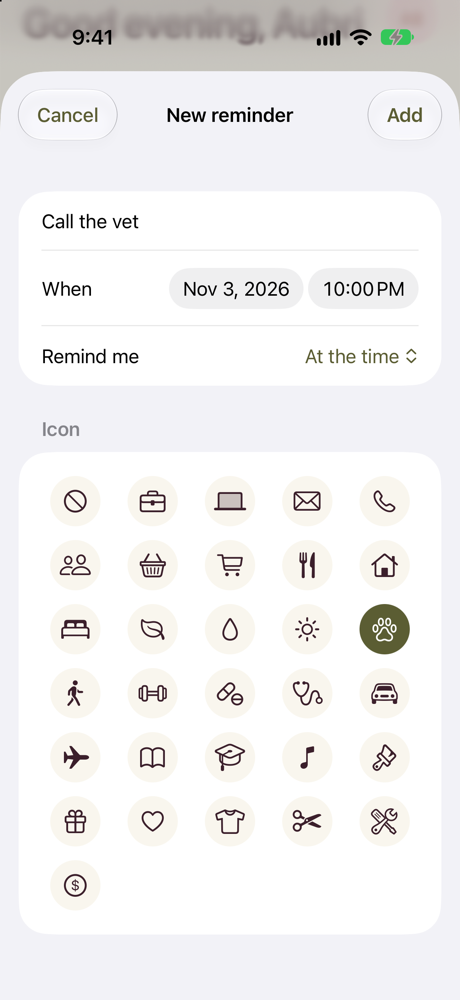
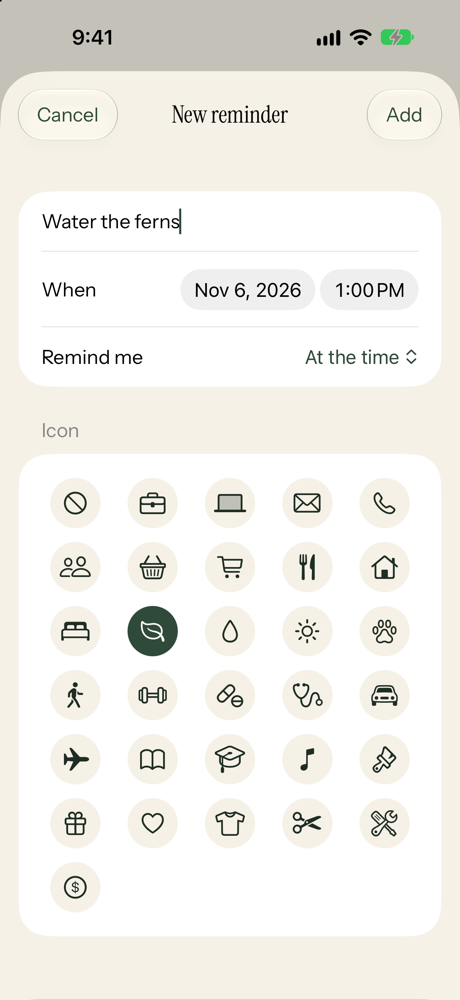
updated README

diff --git a/EverydayApp/App/SampleData.swift b/EverydayApp/App/SampleData.swift
@@ -4,7 +4,7 @@ import SwiftData
 /// Fills the app with data that mirrors the mockup. Used by the
 /// "Load sample data" button and by Xcode previews.
 enum SampleData {
-    /// Adds sample lists, tasks and Library items. Doesn't remove anything first.
+    /// Adds sample lists, tasks, Library items, habits and workouts. Doesn't remove anything first.
     static func load(into context: ModelContext) {
         let cal = Calendar.current
 
@@ -95,5 +95,74 @@ enum SampleData {
         save("Little Olive", "Downtown", .restaurant, .want, "Mediterranean")
         save("Sora Ramen", "Eastside", .restaurant, .want, "Japanese")
         save("Casa Verde", "Old Town", .restaurant, .done, "Mexican", rating: 4)
+
+        // Habits, with a few weeks of history so the streaks and 7-day bars have something to show.
+        func habit(_ name: String, _ icon: String, _ tint: CardTint, target: Int = 1, order: Int,
+                   today: Int, doneDaysAgo: [Int]) {
+            let h = Habit(name: name, icon: icon, tint: tint, target: target, order: order)
+            context.insert(h)
+            var counts = Dictionary(uniqueKeysWithValues: doneDaysAgo.map { ($0, target) })
+            if today > 0 { counts[0] = today }
+            for (daysAgo, count) in counts {
+                let checkIn = HabitCheckIn(day: at(12, daysFromNow: -daysAgo), count: count, target: target)
+                context.insert(checkIn)
+                checkIn.habit = h
+            }
+        }
+        habit("Drink water", "drop", .lavender, target: 8, order: 0, today: 3,
+              doneDaysAgo: [1, 2, 4, 5] + Array(9...17))
+        habit("Stretch", "figure.yoga", .peach, order: 1, today: 1,
+              doneDaysAgo: Array(1...4) + Array(8...19))
+        habit("Read 20 minutes", "book", .lemon, order: 2, today: 0,
+              doneDaysAgo: [2, 4, 5, 6] + Array(10...15))
+
+        // Gym: four workout days. Core was finished yesterday, so Leg x Glutes is today's,
+        // and it's half done: one exercise finished (a new best) and two sets of the next.
+        func workout(_ name: String, _ icon: String, order: Int,
+                     _ moves: [(String, Int, Int, Double?, Bool)]) -> WorkoutDay {
+            let day = WorkoutDay(name: name, icon: icon, order: order)
+            context.insert(day)
+            for (index, move) in moves.enumerated() {
+                let e = Exercise(name: move.0, sets: move.1, reps: move.2, isTimed: move.4,
+                                 weight: move.3, order: index)
+                context.insert(e)
+                e.day = day
+            }
+            return day
+        }
+        let legs = workout("PF Leg x Glutes Day", "figure.strengthtraining.functional", order: 0, [
+            ("Hip Adduction", 3, 12, 85, false),
+            ("Leg Press", 3, 12, 180, false),
+            ("Romanian Deadlift", 3, 10, 65, false),
+            ("Hip Thrust", 3, 10, 135, false),
+            ("Plank", 3, 30, nil, true),
+        ])
+        _ = workout("PF Arm x Shoulder Day", "dumbbell", order: 1, [
+            ("Shoulder Press", 3, 12, 30, false),
+            ("Bicep Curls", 3, 12, 20, false),
+            ("Lateral Raises", 3, 15, 12.5, false),
+            ("Tricep Pushdown", 3, 12, 40, false),
+        ])
+        _ = workout("PF Back x Chest Day", "figure.strengthtraining.traditional", order: 2, [
+            ("Lat Pulldown", 3, 12, 90, false),
+            ("Chest Press", 3, 12, 65, false),
+            ("Seated Row", 3, 12, 85, false),
+        ])
+        let core = workout("PF Core Day", "figure.core.training", order: 3, [
+            ("Dead Bug", 3, 12, nil, false),
+            ("Side Plank", 3, 30, nil, true),
+        ])
+        core.lastCompletedAt = at(18, daysFromNow: -1)
+
+        let moves = legs.sortedExercises
+        // Hip Adduction: 80 lbs last week, 85 today, so it shows "Best!".
+        let earlier = ExerciseLog(date: at(18, daysFromNow: -7), weight: 80, sets: 3, reps: 12)
+        context.insert(earlier)
+        earlier.exercise = moves[0]
+        for _ in 0..<3 { moves[0].finishSet(in: context) }
+        // Leg Press: two sets in, the second came up short.
+        moves[1].finishSet(in: context)
+        moves[1].finishSet(in: context, reps: 10)
+        legs.startedAt = .now.addingTimeInterval(-20 * 60)
     }
 }

diff --git a/EverydayApp/Gym/GymView.swift b/EverydayApp/Gym/GymView.swift
@@ -710,6 +710,7 @@ struct NextTimeSheet: View {
                 }
             }
             .tint(Theme.forest)
+            .themedForm()
             .navigationTitle("Nice work!")
             .navigationBarTitleDisplayMode(.inline)
             .toolbar {
@@ -831,6 +832,7 @@ struct ExerciseSheet: View {
                 }
             }
             .tint(Theme.forest)
+            .themedForm()
             .navigationTitle(editing == nil ? "New exercise" : "Edit exercise")
             .navigationBarTitleDisplayMode(.inline)
             .toolbar {
@@ -914,6 +916,7 @@ struct WorkoutDaySheet: View {
             Form {
                 TextField("e.g. Leg x Glutes Day", text: $name)
             }
+            .themedForm()
             .navigationTitle(editing == nil ? "New workout day" : "Rename workout")
             .navigationBarTitleDisplayMode(.inline)
             .toolbar {
@@ -989,6 +992,7 @@ struct ImportRoutineSheet: View {
                 }
             }
             .tint(Theme.forest)
+            .themedForm()
             .navigationTitle("Paste from Notes")
             .navigationBarTitleDisplayMode(.inline)
             .toolbar {
@@ -1084,6 +1088,7 @@ struct GymScheduleSheet: View {
                 }
             }
             .tint(Theme.forest)
+            .themedForm()
             .navigationTitle("Schedule & Health")
             .navigationBarTitleDisplayMode(.inline)
             .toolbar {

diff --git a/EverydayApp/Shared/Sheets.swift b/EverydayApp/Shared/Sheets.swift
@@ -58,6 +58,7 @@ struct NewTaskSheet: View {
                 }
             }
             .tint(Theme.forest)
+            .themedForm()
             .navigationTitle(kind == .reminder ? "New reminder" : "New task")
             .navigationBarTitleDisplayMode(.inline)
             .toolbar {
@@ -137,6 +138,7 @@ struct NewListSheet: View {
                 }
             }
             .tint(Theme.forest)
+            .themedForm()
             .navigationTitle(editing == nil ? "New list" : "Edit list")
             .navigationBarTitleDisplayMode(.inline)
             .toolbar {
@@ -189,6 +191,7 @@ struct ItemEditSheet: View {
                 }
             }
             .tint(Theme.forest)
+            .themedForm()
             .navigationTitle("Edit item")
             .navigationBarTitleDisplayMode(.inline)
             .toolbar {
@@ -261,6 +264,7 @@ struct SettingsSheet: View {
                 }
             }
             .tint(Theme.forest)
+            .themedForm()
             .navigationTitle("Settings")
             .navigationBarTitleDisplayMode(.inline)
             .toolbar {
@@ -307,6 +311,7 @@ struct TaskIconSheet: View {
                 IconGrid(icons: IconChoices.tasks, selection: $task.icon, allowsNone: true)
                     .padding(20)
             }
+            .themedForm()
             .navigationTitle("Icon")
             .navigationBarTitleDisplayMode(.inline)
             .toolbar {

diff --git a/EverydayApp/Shared/Theme.swift b/EverydayApp/Shared/Theme.swift
@@ -232,6 +232,12 @@ struct CardStyle: ViewModifier {
 }
 
 extension View {
+    /// Gives a Form or List in a sheet the cream page color instead of iOS's gray.
+    func themedForm() -> some View {
+        scrollContentBackground(.hidden)
+            .background(Theme.background)
+    }
+
     /// Rounded card with padding. Plain (surface) cards get a thin border; tinted ones don't.
     func card(_ fill: Color = Theme.surface) -> some View {
         modifier(CardStyle(fill: fill))

diff --git a/EverydayApp/Library/LibraryView.swift b/EverydayApp/Library/LibraryView.swift
@@ -419,6 +419,7 @@ struct LibraryItemSheet: View {
                 }
             }
             .tint(Theme.forest)
+            .themedForm()
             .navigationTitle("\(editing == nil ? "New" : "Edit") \(kind.singular)")
             .navigationBarTitleDisplayMode(.inline)
             .toolbar {

diff --git a/EverydayApp/Calendar/EventEditSheet.swift b/EverydayApp/Calendar/EventEditSheet.swift
@@ -119,6 +119,7 @@ struct EventEditSheet: View {
                 }
             }
             .tint(Theme.forest)
+            .themedForm()
             .navigationTitle(editing == nil ? "New event" : "Edit event")
             .navigationBarTitleDisplayMode(.inline)
             .toolbar {

diff --git a/EverydayApp/Habits/HabitsView.swift b/EverydayApp/Habits/HabitsView.swift
@@ -458,6 +458,7 @@ struct HabitSheet: View {
                     }
                 }
             }
+            .themedForm()
             .navigationTitle(editing == nil ? "New habit" : "Edit habit")
             .navigationBarTitleDisplayMode(.inline)
             .toolbar {

diff --git a/EverydayApp/Calendar/CalendarSettingsSheet.swift b/EverydayApp/Calendar/CalendarSettingsSheet.swift
@@ -91,6 +91,7 @@ struct CalendarSettingsSheet: View {
                 }
             }
             .tint(Theme.forest)
+            .themedForm()
             .navigationTitle("Calendars")
             .navigationBarTitleDisplayMode(.inline)
             .toolbar {

diff --git a/README.md b/README.md
@@ -2,6 +2,7 @@
 
 A calm iPhone app for your day: tasks, reminders, lists, your calendar, daily habits, your gym
 routine, and the books, shows, restaurants and recipes you want to get to, all in one place.
+It has a greenhouse look: cream and fern green, terracotta pots, and habits that grow into plants.
 Built with SwiftUI and SwiftData.
 
 <p align="center">
@@ -47,9 +48,17 @@ them off. Turn on **Add to calendar** to put a task on your real calendar.
 
 ### Habits
 Track the small things you want to do every day, like "Stretch" or "Drink water" (8 times).
-Tap a habit on Today to check it in. Its ring fills up as you go, and you'll see your streak
-and your best. Open **Habits** to add, edit and reorder them, see your last 7 days, or set a daily
-reminder. If you don't have any habits yet, you can add one of the suggestions with a tap.
+Each habit is a plant on the **Plant shelf** on Today. Tap it to check in, and it grows
+through four stages: **Seed** (not yet), **Sprout** (started), **Leafy** (halfway) and
+**Bloom** (done today). Long-press a plant for more options.
+
+Tap **All habits** to open **Your garden**. There you can see each habit's streak, your best,
+and a bar for each of the last 7 days. You can also add, edit, reorder and delete habits, and
+set a daily reminder. Under **Seeds to plant**, tap a suggestion to add it.
+
+<p align="center">
+  <img src="docs/screenshots/habits.png" width="250" alt="Your garden: habits as potted plants with streaks">
+</p>
 
 ### Lists
 Keep lists for anything: groceries, weekend chores, books to read. Grocery items can have a
@@ -88,7 +97,8 @@ Keep your workout routine in the app. Copy it from the Notes app and tap **Paste
 each day (like "Leg x Glutes Day") becomes a workout, and the days take turns in order. Find it on Today or at the top of the **Lists** tab.
 
 - **Set by set:** at the gym, tap each set when you finish it. If you got fewer reps than
-  planned, tap the set again to change the number.
+  planned, tap the set again to change the number. The bar at the top counts your sets,
+  finished exercises turn green, and the next one is outlined as **Up next**.
 - **Rest timer:** finishing a set starts a rest countdown. It shows on the Lock Screen and in
   the Dynamic Island, and your phone buzzes when it's time for the next set.
 - **Next time:** when you tap **Finish workout**, the app suggests going up 5 lbs on exercises
@@ -103,7 +113,7 @@ each day (like "Leg x Glutes Day") becomes a workout, and the days take turns in
 <p align="center">
   <img src="docs/screenshots/gym.png" width="250" alt="Gym screen with workout days">
   &nbsp;
-  <img src="docs/screenshots/workout.png" width="250" alt="A workout with exercises ticked off">
+  <img src="docs/screenshots/workout.png" width="250" alt="A workout in progress with the rest timer">
 </p>
 
 ### Search
@@ -115,6 +125,13 @@ Add the **Today** widget to see your next events and today's tasks without openi
 It comes in small, medium and large sizes. To add it, long-press your home screen, tap
 **Edit → Add Widget** and choose **Everyday**.
 
+### Look and feel
+Headings use [Instrument Serif](https://fonts.google.com/specimen/Instrument+Serif), with
+its italic for single-word accents (like your name in "Good morning, *Aubri*"). Everything
+else uses [Instrument Sans](https://fonts.google.com/specimen/Instrument+Sans). Both fonts
+still follow your iPhone's text size setting. The colors are cream, fern green, sage,
+terracotta and honey. Lists can be Sage, Clay, Honey or Bloom.
+
 ### Light and dark mode
 Follows your iPhone's setting, or pick Light or Dark yourself by tapping your profile picture
 (or initials) on the Today screen. That's also where you set your name and photo. The app icon has light, dark and tinted versions.
@@ -123,7 +140,8 @@ Follows your iPhone's setting, or pick Light or Dark yourself by tapping your pr
 
 1. Open `EverydayApp.xcodeproj` in Xcode.
 2. Choose an iPhone simulator or your own iPhone, then press **Run** (⌘R).
-3. To see the app filled in, go to the **Lists** tab and tap **Load sample data**.
+3. To see the app filled in, go to the **Lists** tab and tap **Load sample data**. It adds
+   lists, tasks, Library items, three habits and a four-day gym routine.
 
 The app asks for these permissions:
 
@@ -163,10 +181,16 @@ The app's code is in `EverydayApp/`, with one folder per part of the app:
 | `Tasks/` | The Tasks screen and the screen for a single task |
 | `Lists/` | The Lists screen and the screen for a single list |
 | `Library/` | The Library screen; `LibraryLookup.swift` looks up books, shows and restaurants as you type; `RecipeImporter.swift` and `TikTokRecipe.swift` read a recipe from a website link or a TikTok video |
-| `Habits/` | Daily habits (`Habits.swift`: check-ins and streaks) and their screens |
+| `Habits/` | Daily habits (`Habits.swift`: check-ins and streaks), the Your garden screen (`HabitsView.swift`) and the potted plants and growth stages (`PlantShelf.swift`) |
 | `Gym/` | Workouts, sets, weight history, personal bests, gym days and reading a routine pasted from Notes (`Gym.swift`); the Gym screens (`GymView.swift`); saving to Apple Health (`GymHealth.swift`); and the rest countdown on the Lock Screen and Dynamic Island (`RestTimer.swift`) |
-| `Shared/` | Used across the app: `Models.swift` (tasks, lists and Library items, including the repeat logic), `Components.swift` (checkboxes, rows and cards), `Sheets.swift` (pop-ups for adding things and settings), `Theme.swift` (colors, date formatting, appearance), `Search.swift`, `Reminders.swift` (task, habit and gym-day notifications) and `WidgetSync.swift` (shares today's plans with the widget) |
+| `Shared/` | Used across the app: `Models.swift` (tasks, lists and Library items, including the repeat logic), `Components.swift` (checkboxes, rows and cards), `Sheets.swift` (pop-ups for adding things and settings), `Theme.swift` (colors, fonts, date formatting, appearance), `Fonts/` (the bundled Instrument font files), `Search.swift`, `Reminders.swift` (task, habit and gym-day notifications) and `WidgetSync.swift` (shares today's plans with the widget) |
 
 `EverydayWidget/` (next to `EverydayApp/`) is the home screen widget and the rest timer's Lock Screen view, a separate part of the app that iOS runs on its own.
 
 New files go in the folder for their part of the app. Xcode picks them up automatically.
+
+## Credits
+
+Instrument Serif and Instrument Sans were made by [Instrument](https://www.instrument.com) and are free to use under the
+[SIL Open Font License](EverydayApp/Shared/Fonts/OFL.txt). They're bundled in `EverydayApp/Shared/Fonts/`
+and loaded when the app starts (see `AppFonts` in `Theme.swift`).
